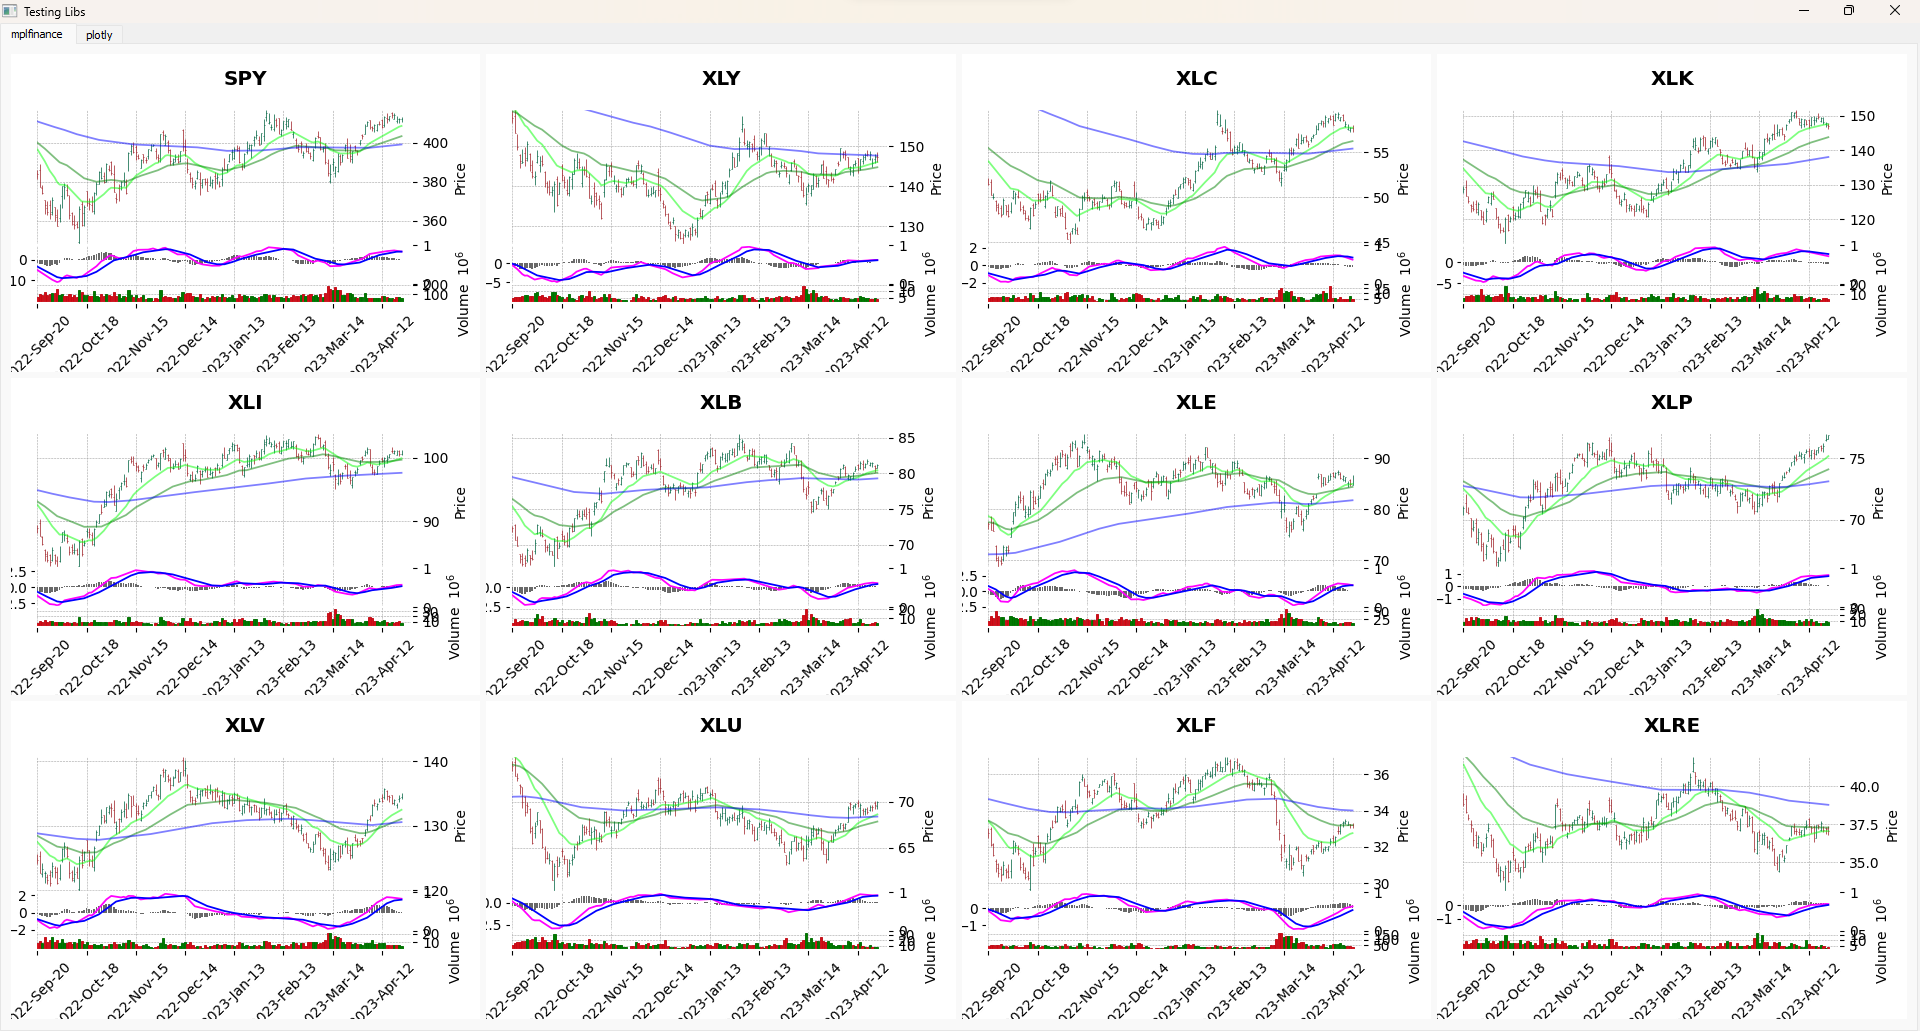
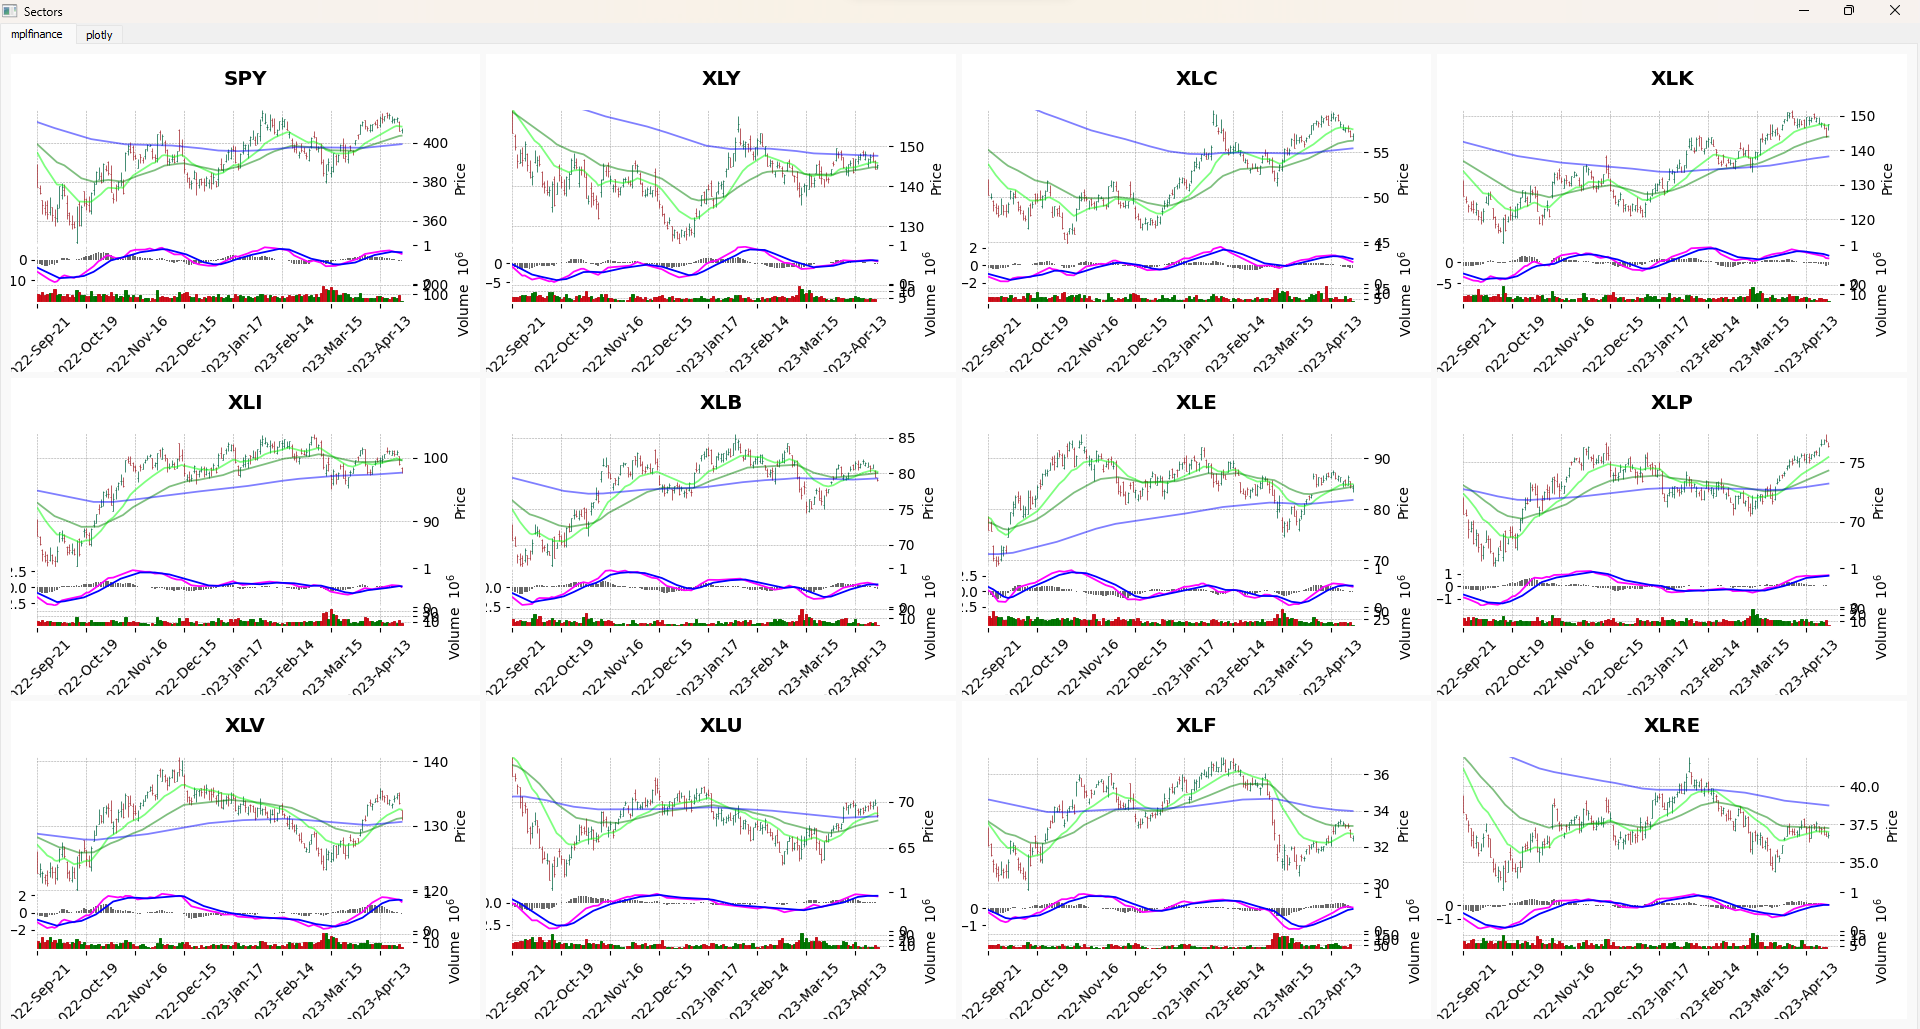
Fix Name, completing readme

diff --git a/GUI.py b/GUI.py
@@ -76,7 +76,7 @@ class MainWindow(QtWidgets.QTabWidget):
 def main():
     app = QtWidgets.QApplication(sys.argv)
     mw = MainWindow()
-    mw.setWindowTitle('Testing Libs')
+    mw.setWindowTitle('Sectors')
     mw.show()
     sys.exit(app.exec_())
 

diff --git a/README.md b/README.md
@@ -1,11 +1,13 @@
 # Sector_visualization
-This program generates an orverview of the US stock sector using Yahoo Finance library.
+- This program generates an orverview of the US stock sector using Yahoo Finance library.
+- In the program you have an overview of SPY, XLY, XLC, XLK, XLI, XLB, XLE, XLP, XLV, XLU, XLF, XLRE.
+- Indicators used: EMA20, EMA50, EMA200, MACD.
 
 # Screenshot
 ![Screenshot](Screenshot.png)
 
 # Explanation
 - This program uses the Symbol.py library that abstracts Yahoo Finance, so the source of the data can be easily swapped to obtain the same result.
-- The user interface has been made with PyQt5
-- The charts are made using mplfinance
+- The user interface has been made with PyQt5.
+- The charts are made using mplfinance.
 - The program uses a cache file for every symbol that it download so the program only query the latest data, not all the data every time.
